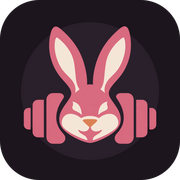
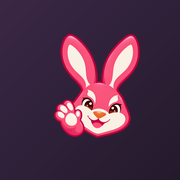
Rebrand REP to RepBunny: name + mark (item 39)
Rename the app throughout (manifest name/short_name, document/page title,
in-app wordmark on Log/menu/login/empty-state screens, e2e title assertion,
doc headings) and swap the whole PWA icon set for a new bunny mark. The mark
is the mascot art supplied mid-session for the Onboarding artboard (also
staged at public/onboarding-bunny.png for item 42), composited onto the
brand system's Night-to-Warren gradient squircle from the "Style" artboard.
icon-192/icon-512 keep the bunny inside Android's maskable safe zone since
both files are reused for the manifest's any and maskable icon entries;
apple-touch-icon stays un-rounded since iOS applies its own mask; badge-96
is rebuilt as a pure alpha-channel silhouette since Android notification
badges render by alpha only.

Claude-Session: https://claude.ai/code/session_017dLHdVzTcxkQMDDNGkz9gC

diff --git a/src/components/WorkoutLogger.vue b/src/components/WorkoutLogger.vue
@@ -416,7 +416,7 @@ function dismissVolumeChart() {
             <div class="mascot mascot-lg">
               <img src="/icon-512.png" alt="" />
             </div>
-            <p class="welcome-title">Welcome to REP</p>
+            <p class="welcome-title">Welcome to RepBunny</p>
             <p class="welcome-copy">
               This is where your workouts live. Add your first exercise to start logging sets and watching your
               progress build.

diff --git a/vite.config.ts b/vite.config.ts
@@ -28,8 +28,8 @@ export default defineConfig({
       injectRegister: false,
       includeAssets: ['apple-touch-icon.png', 'favicon.ico', 'favicon-16x16.png', 'favicon-32x32.png'],
       manifest: {
-        name: 'REP',
-        short_name: 'REP',
+        name: 'RepBunny',
+        short_name: 'RepBunny',
         display: 'standalone',
         orientation: 'portrait',
         theme_color: '#17111C',

diff --git a/e2e/auth.spec.ts b/e2e/auth.spec.ts
@@ -9,7 +9,7 @@ test('shows the login form when signed out', async ({ page }) => {
 
 test('page title carries the build version', async ({ page }) => {
   await page.goto('/')
-  await expect(page).toHaveTitle(/^REP v\d+\+[0-9a-f]{7,}/)
+  await expect(page).toHaveTitle(/^RepBunny v\d+\+[0-9a-f]{7,}/)
 })
 
 test('build version is visible on-page, not just in the title', async ({ page }) => {

diff --git a/src/main.ts b/src/main.ts
@@ -4,7 +4,7 @@ import { registerSW } from 'virtual:pwa-register'
 import App from './App.vue'
 import './style.css'
 
-document.title = `REP ${__APP_VERSION__}`
+document.title = `RepBunny ${__APP_VERSION__}`
 
 // `immediate: true` registers the service worker right away instead of
 // waiting for window 'load'. `registerType: 'autoUpdate'` (vite.config.ts)

diff --git a/src/components/AppMenu.vue b/src/components/AppMenu.vue
@@ -86,7 +86,7 @@ onBeforeUnmount(() => {
         <div class="drawer-header">
           <div class="brand">
             <img src="/icon-192.png" alt="" class="brand-logo" />
-            <span>REP</span>
+            <span>RepBunny</span>
           </div>
           <button
             ref="closeButtonRef"

diff --git a/src/App.vue b/src/App.vue
@@ -20,7 +20,7 @@ const appVersion = __APP_VERSION__
       <header class="app-header">
         <div class="brand">
           <img src="/icon-192.png" alt="" class="brand-logo" />
-          <h1>REP</h1>
+          <h1>RepBunny</h1>
         </div>
         <button
           type="button"

diff --git a/src/components/LoginForm.vue b/src/components/LoginForm.vue
@@ -32,7 +32,7 @@ async function handlePasskeySignIn() {
   <div class="screen">
     <div class="brand">
       <img src="/icon-192.png" alt="" class="brand-logo" />
-      <h1>REP</h1>
+      <h1>RepBunny</h1>
       <p class="tagline">Small wins. Stronger every set.</p>
     </div>
 

diff --git a/index.html b/index.html
@@ -16,7 +16,7 @@
       href="https://fonts.googleapis.com/css2?family=Baloo+2:wght@500;600;700;800&family=Manrope:wght@400;500;600;700;800&display=swap"
       rel="stylesheet"
     />
-    <title>REP</title>
+    <title>RepBunny</title>
   </head>
   <body>
     <div id="app"></div>

diff --git a/docs/backlog-archive.md b/docs/backlog-archive.md
@@ -92,3 +92,4 @@ on something already shipped. New entries get appended here when an item is remo
 - Ability to edit a past workout from History (item 32, 2026-09-24): `src/stores/workouts.ts` gained `updateHistorySet`/`deleteHistorySet`/`updateWorkoutNotes`, mirroring item 13's `updateSet`/`deleteSet` but reading/writing `history` instead of `activeSets`. Scoped deliberately to sets that already exist on a finished workout — decided against allowing a brand-new set to be added to a past workout, since that would re-trigger `set_index`/volume-chart implications for any template it's linked to, and the cheaper "existing sets only" option already covers the reported pain point (a wrong rep/weight/RPE entry) without that complexity. `WorkoutHistory.vue` now shows "Edit"/"Delete" per set row (same inline-form pattern as `WorkoutLogger.vue`'s active-set editor) and an "Edit notes"/"Add notes" affordance per card (same pattern as `ExerciseList.vue`'s notes editor), reusing item 31's card-level "Delete workout" placement/confirm-step convention alongside these new per-row actions rather than introducing a different one. Verified via a new `e2e/edit-past-workout.spec.ts` (edit notes, edit a set, cancel-discards-draft, delete one of two sets while confirming the workout and its other set survive) plus a full suite run (27/27), and `npm run build`.
 - Redesign exercise row actions into pencil/trash icons (item 24, 2026-09-24): `ExerciseList.vue`'s four ghost text buttons ("Edit name", "Edit notes"/"Add notes", "Edit rest timer"/"Add rest timer", "Archive") became two icon buttons per row — a pencil (`aria-label="Edit exercise"`) opening one consolidated flyout covering name, setup notes, and rest timer together, and a trash can (`aria-label="Delete exercise"`) behind an explicit confirm step, same inline-toggle pattern as `WorkoutHistory.vue`'s workout delete (item 31) and `TemplateManager.vue`'s template archive (item 35). Built on the same-day archive-vs-delete decision (see "Decisions made" above): kept the `is_archived` soft-delete at the DB level, but the UI now calls it "Delete" and drops the archive pretense — `exercises.ts`'s `archiveExercise` function itself is unchanged, only its button label and confirm step moved. `updateExerciseName`/`updateSetupNotes`/`updateRestSeconds` were consolidated into one `updateExercise(id, name, setupNotes, restSeconds)` doing a single write, since the flyout now saves all three fields together. Updated `e2e/exercise-edit-name.spec.ts`, `exercise-notes.spec.ts`, `rest-timer.spec.ts`, `rest-timer-screen.spec.ts`, `exercise-create-full.spec.ts`, and `archived-template-exercise.spec.ts` for the new icon `aria-label`s and consolidated form; added a new `e2e/exercise-delete-confirm.spec.ts` (cancel backs out, confirm actually deletes). Verified via `npm run build` and a full `npm run test:e2e` run (28/28, one unrelated pre-existing flake in `pre-fill.spec.ts` reproduced and passed clean on rerun) — an earlier run in the same session also hit Supabase's `verifyOtp` rate limit on the shared test account from running the suite back-to-back several times; unrelated to this change and cleared after waiting, but worth revisiting the `[human]` Resend-account fallback in `docs/backlog.md` if it keeps happening.
 - Brand system refresh: palette, type, and bunny mark tokens (item 40, 2026-09-24): replaced `src/style.css`'s `:root` tokens with the RepBunny palette from the private canvas mockup's "Style" artboard — `--bg`/`--surface`/`--surface-2` now Night/Warren/#241a2c, `--text`/`--text-dim` now Cream/a muted plum-grey, `--accent`/`--accent-pressed` now Bunny Pink/Pink Strong, `--secondary` reassigned Lavender (was orange), `--highlight` reassigned Carrot Gold (was gold, same role), `--success` now Sprout green, `--danger` nudged to a warm rose in the same family, `--border` picked as a flat approximation of the mockup's translucent white-on-surface overlays. Added `--font-display` (Baloo 2) and `--font-body` (Manrope, replacing the old system-font stack), loaded via a Google Fonts `<link>` in `index.html` (plus preconnects) rather than a CSS `@import`; `body` and `h1` now consume them (`h1` doubles as the page-title role Baloo 2 fills in the mockups). Also synced `vite.config.ts`'s manifest `theme_color`/`background_color` and `index.html`'s `theme-color` meta to the new `--bg` value, since they're supposed to track it per the file's own comment — left `name`/`short_name`/`<title>` as "REP" for item 39 to rename. Purely tokens; no component markup changed, so every existing screen just re-skins in place. Verified via `npm run build` and a full `npm run test:e2e` run (28/28, one unrelated pre-existing flake in `archived-template-exercise.spec.ts` reproduced and passed clean on rerun).
+- Rebrand REP to RepBunny (item 39, 2026-09-25): renamed the app throughout — `vite.config.ts` manifest `name`/`short_name`, `index.html`/`src/main.ts` title, the in-app wordmark (`App.vue`, `AppMenu.vue`, `LoginForm.vue`, `WorkoutLogger.vue`'s empty-state), `e2e/auth.spec.ts`'s title assertion, and the `README.md`/`AGENTS.md`/`CLAUDE.md`/`docs/architecture.md` headings. Swapped the whole PWA icon set (`icon-192`/`icon-512`/`apple-touch-icon`/both favicon sizes/`favicon.ico`/`badge-96`) for a new mark: the bunny mascot art the user supplied mid-session (same character as the private canvas's Onboarding artboard, also staged at `public/onboarding-bunny.png` for item 42 to consume) composited onto the Style artboard's Night-to-Warren gradient squircle — generated with Pillow (script not committed) rather than by hand, sized so the bunny sits inside Android's maskable safe zone since `icon-192`/`icon-512` are reused for both `any` and `maskable` manifest entries; `apple-touch-icon.png` left un-rounded (iOS applies its own corner mask) and `badge-96.png` rebuilt as a pure alpha-channel silhouette (Android notification badges render by alpha only, ignoring RGB) rather than reusing the colored mark. Verified via `npm run build` and a full `npm run test:e2e` run (28/28).

diff --git a/docs/backlog.md b/docs/backlog.md
@@ -20,23 +20,21 @@ Each item is scored on two axes, both on a Fibonacci scale (1, 2, 3, 5, 8, 13):
 
 Priority order (highest ROI first), kept in sync with the tags below:
 
-1. Item 39 — Rebrand REP to RepBunny (name + mark) [ROI 1.7]
-2. Item 42 — First-launch onboarding screen [ROI 1.7]
-3. Item 43 — Redesigned sign-in screen (passkey-first) [ROI 1.7]
-4. Item 44 — Home screen visual refresh [ROI 1.7]
-5. Item 41 — Bottom tab bar navigation (replaces hamburger drawer) [ROI 1.6]
-6. Item 45 — History screen visual refresh [ROI 1.5]
-7. Item 46 — Templates screen visual refresh [ROI 1.5]
-8. Item 47 — Exercises screen visual refresh [ROI 1.5]
+1. Item 42 — First-launch onboarding screen [ROI 1.7]
+2. Item 43 — Redesigned sign-in screen (passkey-first) [ROI 1.7]
+3. Item 44 — Home screen visual refresh [ROI 1.7]
+4. Item 41 — Bottom tab bar navigation (replaces hamburger drawer) [ROI 1.6]
+5. Item 45 — History screen visual refresh [ROI 1.5]
+6. Item 46 — Templates screen visual refresh [ROI 1.5]
+7. Item 47 — Exercises screen visual refresh [ROI 1.5]
 
 ## Features
 
-Design source for items 39–47: private canvas mockup at
+Design source for items 41–47: private canvas mockup at
 https://claude.ai/artifact/365JapPyt535xKDe7roJaQ (artboard names referenced below match its
-canvas). Renaming REP → RepBunny throughout — brand identity is cute, functional, cool.
+canvas). Brand identity (RepBunny) is cute, functional, cool.
 
-- [ ] **Rebrand REP to RepBunny (name + mark)** (item 39): rename the app throughout — PWA manifest `name`/`short_name`, `document.title`/`<title>`, the in-app header wordmark, and the doc titles (`README.md`/`AGENTS.md`/`CLAUDE.md`/`docs/architecture.md`) touched by the original REP rebrand. Swap the PWA icon set (`public/icon-192.png`, `icon-512.png`, `apple-touch-icon.png`, favicons, notification badge) for a new bunny mark — user has supplied bunny illustration source art to work from (already used on the Onboarding artboard). See the "Style" artboard for the wordmark/lockup treatment. [Effort: 3, Value: 5, ROI: 1.7]
-- [ ] **First-launch onboarding screen** (item 42): add a welcome screen shown once before sign-in (mascot, "RepBunny" wordmark, tagline, single "Let's hop in" CTA into the sign-in screen) — the app currently opens straight into the login form with no first impression. Needs a local "has seen onboarding" flag (e.g. localStorage) so it doesn't reappear every launch. See the "Onboarding" artboard. Depends on items 39 and 40. [Effort: 3, Value: 5, ROI: 1.7]
+- [ ] **First-launch onboarding screen** (item 42): add a welcome screen shown once before sign-in (mascot, "RepBunny" wordmark, tagline, single "Let's hop in" CTA into the sign-in screen) — the app currently opens straight into the login form with no first impression. Needs a local "has seen onboarding" flag (e.g. localStorage) so it doesn't reappear every launch. See the "Onboarding" artboard — its mascot image is staged at `public/onboarding-bunny.png`. Depends on items 39 and 40 (both shipped). [Effort: 3, Value: 5, ROI: 1.7]
 - [ ] **Redesigned sign-in screen (passkey-first)** (item 43): rework `LoginForm.vue` to lead with "Sign in with passkey" as the primary CTA — matching the actual auth model (no signup, two allowlisted users, passkey-first per `docs/architecture.md#authentication`) — and demote the email/magic-link path to a secondary fallback below a divider, instead of today's flat form. Purely a front-end restructure; calls the same `registerPasskey`/`signInWithPasskey`/magic-link paths already in place. See the "Auth" artboard. Depends on item 40. [Effort: 3, Value: 5, ROI: 1.7]
 - [ ] **Home screen visual refresh** (item 44): restyle the Log/Home screen's existing progress strip (item 19, archived) and template picker — swap the plain "workouts this week" number for a paw-print week tracker, give the PR tile a more celebratory treatment, and turn the template `<select>` into quick-pick chips above the existing form. No new data, same underlying state, restyled. See the "Home" artboard. Depends on item 40. [Effort: 3, Value: 5, ROI: 1.7]
 - [ ] **Bottom tab bar navigation** (item 41): replace `AppMenu.vue`'s hamburger drawer (item 18, archived) with a persistent bottom tab bar (Home / History / Templates / Exercises) so primary destinations are always one tap away instead of hidden behind a menu; frees the header for a lighter secondary action. Requires reworking `e2e/fixtures/nav.ts`'s `goTo` helper and every spec that uses it. See the bottom nav on every phone artboard. Depends on item 40 (active-tab color tokens). [Effort: 5, Value: 8, ROI: 1.6]

diff --git a/docs/architecture.md b/docs/architecture.md
@@ -1,4 +1,4 @@
-# REP (Workout Tracker PWA) — Architecture
+# RepBunny (Workout Tracker PWA) — Architecture
 
 > Canonical technical reference for this project. Source brief: `ARCHITECTURE.pdf` in this folder.
 > Update this file, not the PDF, as decisions evolve.

diff --git a/README.md b/README.md
@@ -1,4 +1,4 @@
-# REP (Workout Tracker PWA)
+# RepBunny (Workout Tracker PWA)
 
 Private, installable workout tracker for two users. Vue 3 + TS + Supabase + Cloudflare Pages.
 
